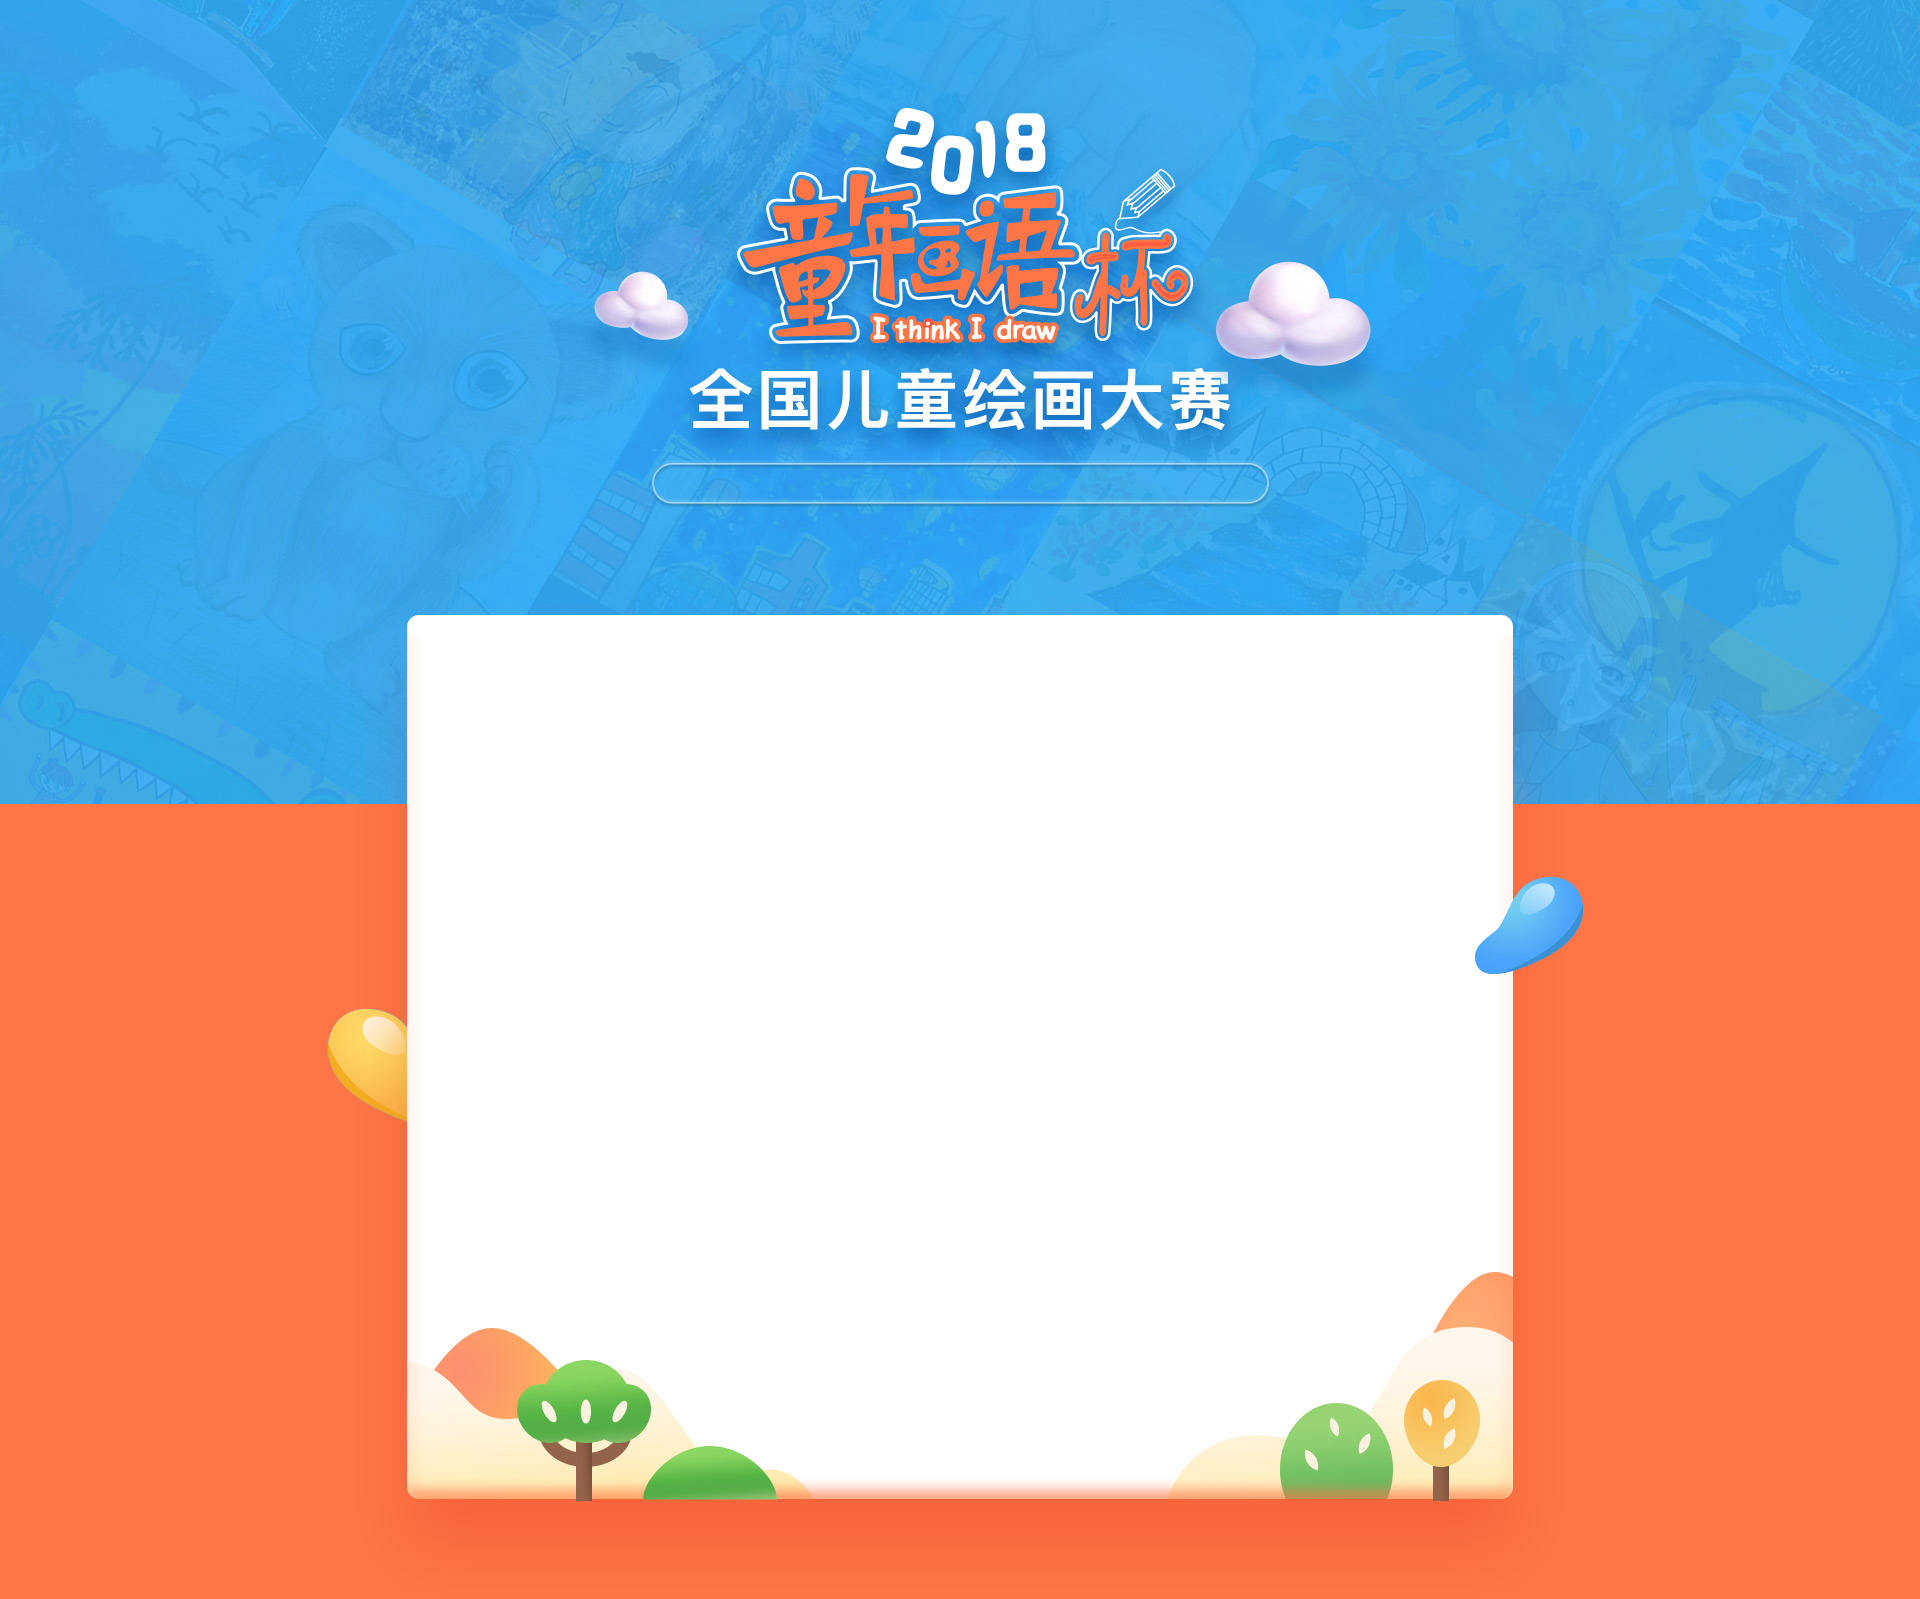
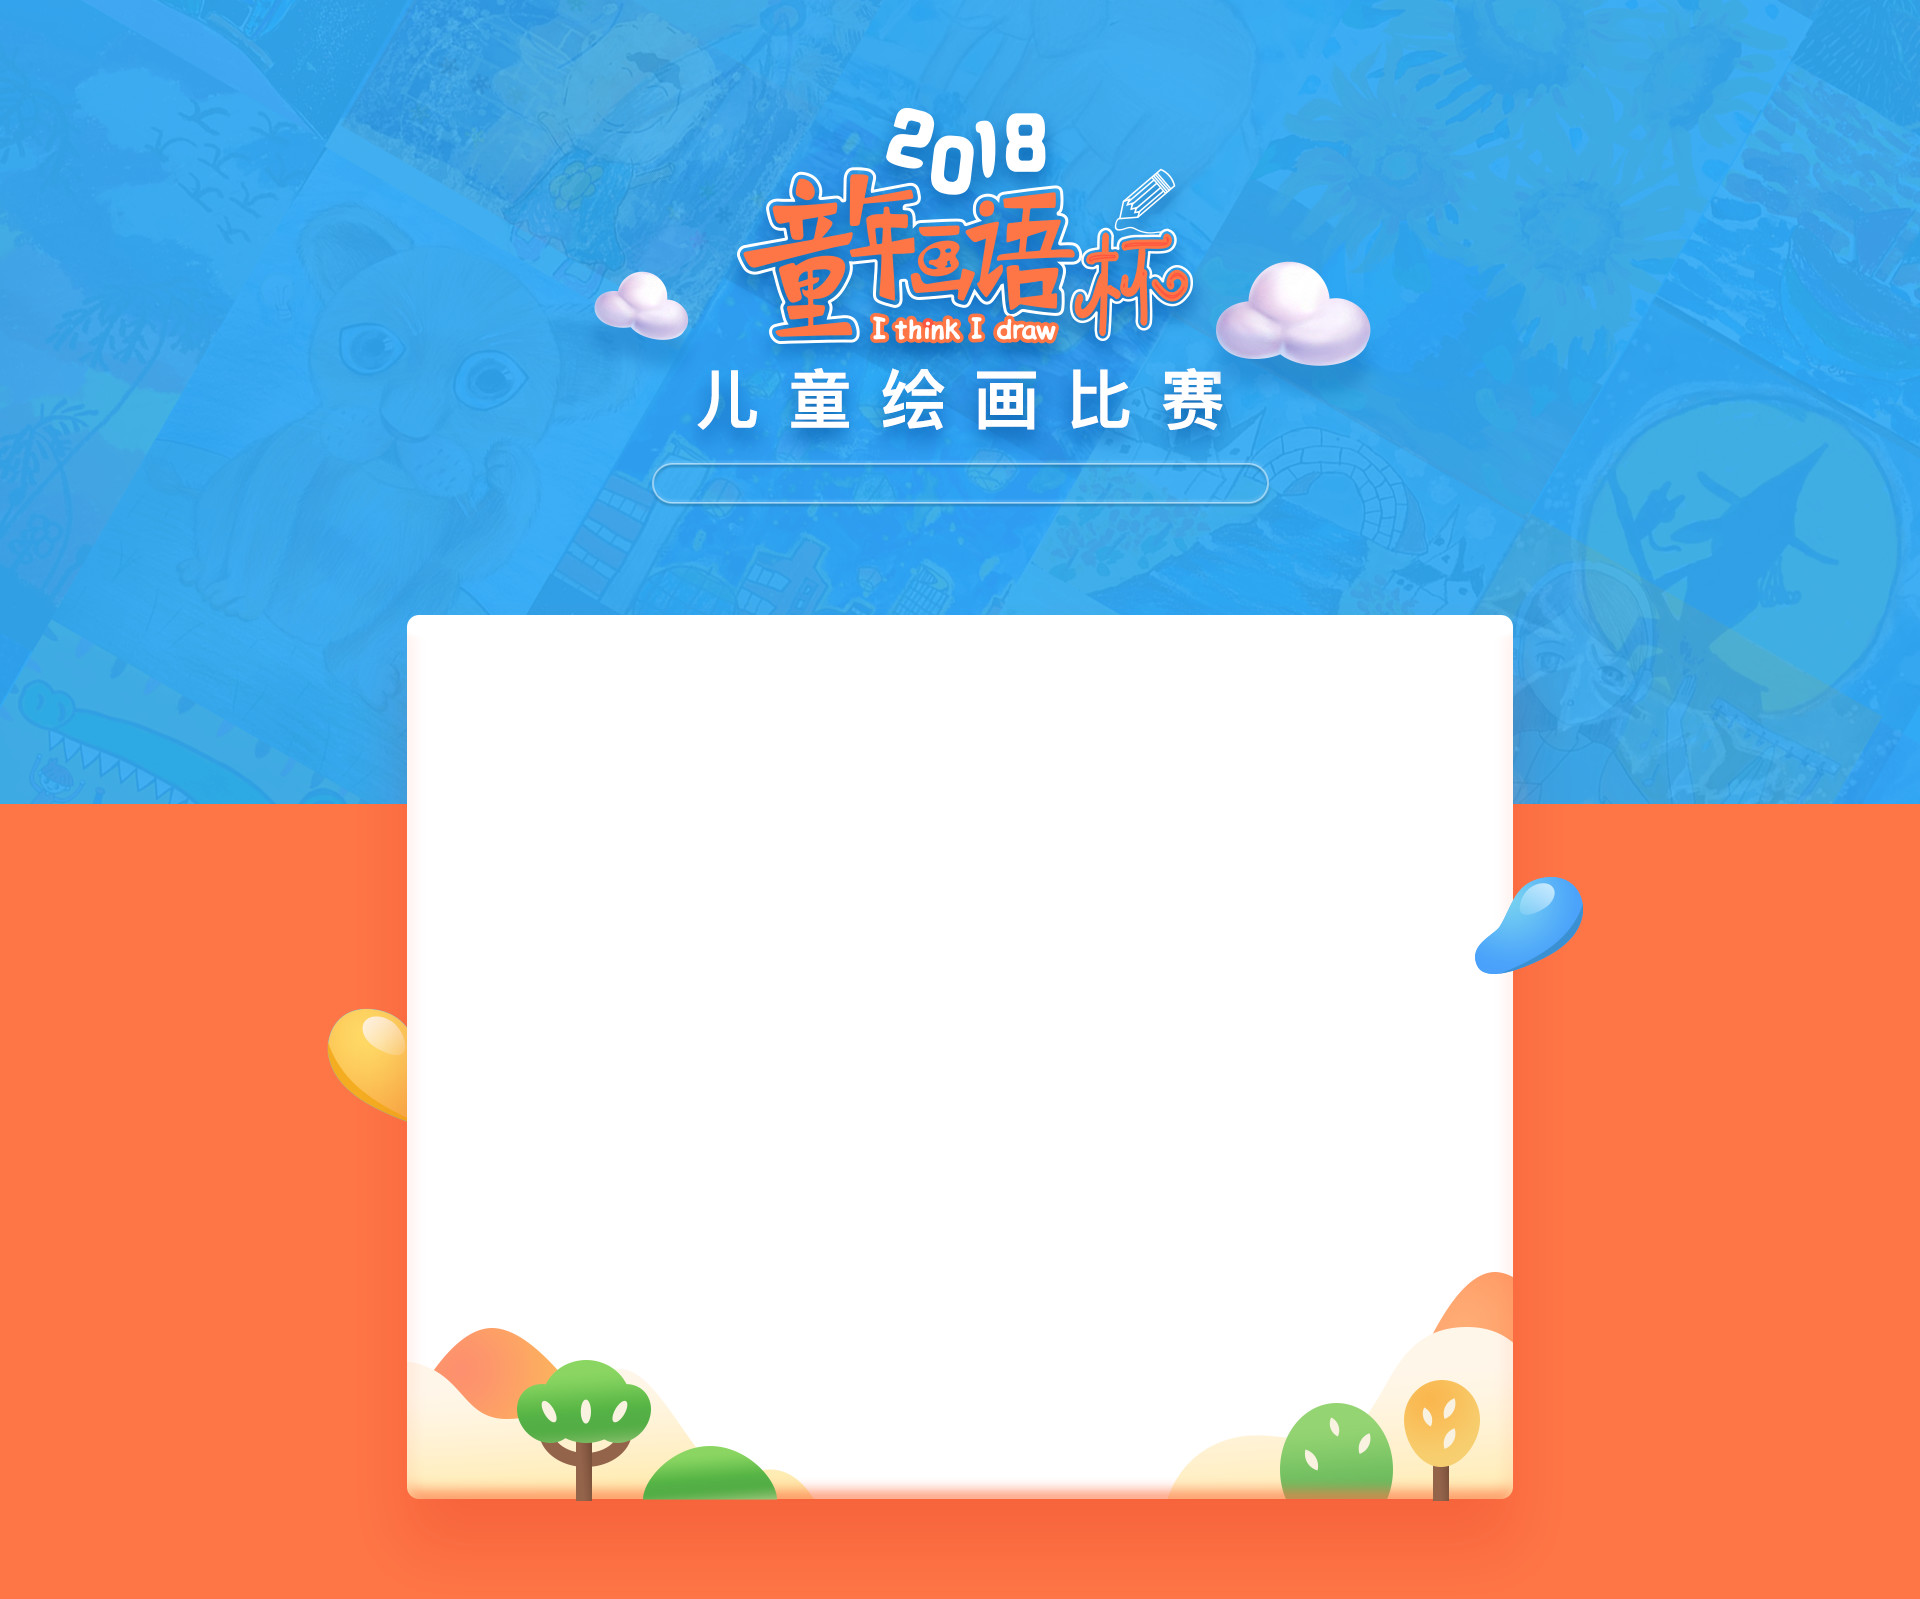
文字 修改

Changed region(s): [[0.3438, 0.2145, 0.6562, 0.2758]]

diff --git a/match/index.html b/match/index.html
@@ -13,11 +13,11 @@
     <div class="match yahei">
         <div class="banner">
             <div class="match-top">
-                <p class="match-time">报名时间：2018年3月-6月  评比时间：2018年6月7月  展出时间：2018年8月</p>
+                <p class="match-time">报名时间：2018年4月-6月  评比时间：2018年6月-7月  展出时间：2018年8月</p>
             </div>
             <div class="match-info">
                 <dl>
-                    <dt>大赛介绍</dt>
+                    <dt>比赛介绍</dt>
                     <dd>童年——人生最美好的阶段，最无忧的时光，总是憧憬着缤纷多彩的童话与梦想。</dd>
                     <dd>孩子们会用他们的独特方式来描述他们的童话世界，我们希望家长能放下手机，停下手中的工作，静下心来听孩子们描述他们的
                     理想世界。“童年画语”杯全国儿童绘画大赛，积极响应“中国梦”,大赛以科学发展观为指导思想，让孩子用画笔来表达自己眼中的
@@ -28,7 +28,8 @@
                     <dt>活动亮点</dt>
                     <dd>本次大赛入围决赛的优秀作品，将由行业专业策展人、艺术节联合策展，2018年暑期在上海专业美术馆进行公开展览。 同时，大
                     赛每位参展者都将是公益的一份子，主办方将以每位小朋友的名义，捐赠一份画材至上海特殊关爱基金会用于慈善事业。每位参展
-                    的小朋友将获得公益证书！</dd>
+                    的小朋友将获得公益证书！本届绘画比赛提交的作品，不仅展示小朋友的创作作品时的文字介绍，同时还会开发“语言记录”功能，
+                    让小朋友直接将作品背后的故事说出来给大家听，实现真正意义上的“童年画语”。</dd>
                 </dl>
             </div>
             <div class="match-video">
@@ -62,31 +63,31 @@
                             </div>
                         </li>
                         <li class="c-list fr clearfix">
-                            <img class="fl" src="../match/images/pic2.jpg" alt="">
-                            <div class="info">
-                                <p class="name b">吴超先生</p>
-                                <p class="desc">全国语文特级教师、原上海市语言文字工作者协会副会长</p>
-                            </div>
-                        </li>
-                        <li class="c-list fl clearfix">
                             <img class="fl" src="../match/images/pic3.jpg" alt="">
                             <div class="info">
                                 <p class="name b">韩生先生</p>
                                 <p class="desc">中国戏剧家协会副主席、中国舞台美术学会副会长</p>
                             </div>
                         </li>
-                        <li class="c-list fr clearfix">
-                            <img class="fl" src="../match/images/pic4.jpg" alt="">
+                        <li class="c-list fl clearfix">
+                            <img class="fl" src="../match/images/pic2.jpg" alt="">
                             <div class="info">
-                                <p class="name b">王南溟先生</p>
-                                <p class="desc">职业艺术家，批评家</p>
+                                <p class="name b">吴超先生</p>
+                                <p class="desc">全国语文特级教师、原上海市语言文字工作者协会副会长</p>
                             </div>
                         </li>
-                        <li class="c-list fl clearfix">
+                        <li class="c-list fr clearfix">
                             <img class="fl" src="../match/images/pic5.jpg" alt="">
                             <div class="info">
                                 <p class="name b">刘蟾女士</p>
                                 <p class="desc">著名海派画家、东方童画顾问</p>
+                            </div>
+                        </li>
+                        <li class="c-list fl clearfix">
+                            <img class="fl" src="../match/images/pic4.jpg" alt="">
+                            <div class="info">
+                                <p class="name b">王南溟先生</p>
+                                <p class="desc">职业艺术家，批评家</p>
                             </div>
                         </li>
                         <li class="c-list fr clearfix">
@@ -110,22 +111,12 @@
                         <h3>指导单位</h3>
                     </div>
                     <ul class="con clearfix">
-                        <li class="c-list fl clearfix">
+                        <li class="c-list fl clearfix c-single">
                             <img class="fl" src="../match/images/company1.jpg" alt="">
                             <div class="info">
                                 <p class="name b">中国儿童报</p>
-                                <p class="desc">面向6-10岁儿童，是唯一面向全国发行的中国少年
-                                先锋队中低年级队报；由共青团中央主管，中国少
-                                年儿童新闻出版总社主办，中国少年报社出版</p>
-                            </div>
-                        </li>
-                        <li class="c-list fr clearfix">
-                            <img class="fl" src="../match/images/company2.jpg" alt="">
-                            <div class="info">
-                                <p class="name b">少年日报</p>
-                                <p class="desc">《少年日报》[1]  是中国内地惟一的少年儿童日报。
-                                少年报社1967年7月创办于上海。创办时主要报刊
-                                有《少年报》《好儿童画报》。</p>
+                                <p class="desc">面向6-10岁儿童，是唯一面向全国发行的中国少年先锋队中低年级队报；由共青团中央主管，中国少年儿童新闻出版总社
+                                主办，中国少年报社出版，国内统一刊号CN11-0063，邮发代号1-90；每周一出版一期，属于综合类新闻报刊。</p>
                             </div>
                         </li>
                     </ul>
@@ -159,20 +150,20 @@
             <div class="rcon">
                 <div class="rtxt">
                     <dl>
-                        <dt>大赛规则</dt>
-                        <dd>大赛主题：我的美丽中国<br>
+                        <dt>比赛规则</dt>
+                        <dd>比赛主题：我的美丽中国<br>
                         参赛对象; 3-15岁儿童、特教学校学生、阳光之家学员等<br>
                         作品要求：<br>
                         儿童画主题创作（包含彩铅、素描、动漫作品，绘画作品避免手工立体元素。绘画作品尺寸为<br>
                         八开370*260mm，请勿装裱。）<br>
-                        报名时间：2018年3月-6月<br>
+                        报名时间：2018年4月-6月<br>
                         评比时间：2018年6月7月<br>
                         展出时间：2018年8月<br>
-                        比赛组别：幼儿组（3-6岁）、少儿组（7岁-15岁）、特别组</dd>
+                        比赛组别：幼儿组（3-6岁）、少儿组（7岁-15岁）、特别组（特教学校学生、阳光之家学员等）</dd>
                         <dd>
                         具体时间：<br>
                         2018年1月：2018“童年画语” 杯全国儿童绘画比赛组委会成立仪式<br>
-                        2018年3月：召开发布会宣布比赛正式启动，全国开启报名。<br>
+                        2018年4月：召开发布会宣布比赛正式启动，全国开启报名。<br>
                         2018年4月—5月：东方童画全国体验馆大赛报名推广，北京、上海幼儿园及少年宫同步进行。<br>
                         2018年5月—6月初：绘画大赛作品上传线上艺术馆。<br>
                         2018年6月： 开启绘画大赛线上投票，为期10天。<br>
@@ -186,13 +177,16 @@
                 <div class="txt">
                     <dl>
                         <dt>参赛流程</dt>
-                        <dd class="d1">1、 在线报名：关注大赛官方公众号：ChinaDFTH ，选择在线参赛，并按提示进行操作；也可通过电脑端登录www.dfth.com 进行在线报名。</dd>
-                        <dd class="d1">2、 上传电子版作品：将作品用数码相机或高像素手机拍成照片（确保作品画面完整平整，照片无作品外画面），照片名称以省份+城市+年龄
-                        （集体参赛需补充机构名称），并填写参赛登记表(官方公众号或网站下载），将所有文件压缩打包发送至组委会邮箱tnhyzwh@dfth.com 。</dd>
+                        <dd class="d1">1、 网络报名：关注比赛官方公众号：ChinaDFTH ，下拉菜单【童年画语】中选择在线参赛，并按提示进行操作；也可通过比赛官网www.51tnhy.com
+                        进行在线报名。</dd>
+                        <dd class="d1">2、 上传电子版作品：将作品用数码相机或高像素手机拍成照片（确保作品画面完整平整，照片无作品外画面），在官方公众号按提示上传作品、填写
+                        相关作品信息。</dd>
+                        <dd class="d1">3、集体参赛（10幅作品以上）：各机构统一汇zwh@51tnhy.com，组委会将开通机构后台管理账号并邮件回复操作说明，各机构自行汇总上传电子版作
+                        品。</dd>
                         <dd class="d1">说明：</dd>
-                        <dd>① 个人参赛者建议通过在线报名参赛方式参赛，如有疑问请直接拨打客服电话4009856006</dd>
-                        <dd>② 入围美术馆作品展出的作品，组委会将通知参赛者寄送原作品参赛：参赛作品需在作品背后右下角粘贴参赛登记表，并将登记表信息填写完整（登
-                        记表可在网站下载后打印），全国作品邮寄地址：上海市徐汇区中山西路1698弄14号童年画语比赛组委会 收  联系电话：4008956006</dd>
+                        <dd>① 个人参赛者建议通过在线报名参赛方式参赛，如有疑问请直接拨打客服电话4009856006；</dd>
+                        <dd>② 入围美术馆展出的作品，组委会将通知参赛者寄送原作品参赛：参赛作品需在作品背后右下角粘贴参赛登记表，并将登记表信息填写完整（登记表可
+                        在官方网站下载后打印），全国作品邮寄地址：上海市徐汇区中山西路1698弄14号童年画语比赛组委会 收  联系电话：4008956006；</dd>
                     </dl>
                     <div class="abtn">
                         <img src="../match/images/download.png" alt="">
@@ -202,11 +196,11 @@
                 <div class="txt">
                     <dl>
                         <dt>注意事项</dt>
-                        <dd class="d1">① 作品评选方式为根据专家组评审和网络人气评审综合结果评定</dd>
-                        <dd class="d1">② 参赛组别设立幼儿组（3-6岁）和少儿组（7-15岁）/dd>
-                        <dd class="d1">③ 提交作品时，需根据公众号的步骤流程上传作品。（画作需保存较完好，无污点无裂痕，进入复赛的作品原作需在截止日期前邮寄到组委会，方便进
-                        行落地颁奖与展览，若原作有损毁或无法邮寄，则取消领奖资格，邮寄作品需与上传作品一致，邮寄到组委会截止日期为2018年6月下旬）</dd>
-                        <dd class="d1 d2">④ 特别声明： 每位参赛者仅可报名1幅作品，所有参赛作品概不退稿，承办方拥有使用权及印刷出版权。</dd>
+                        <dd class="d1">① 作品评选根据专家组评审和网络人气评审综合结果评定；</dd>
+                        <dd class="d1">② 参赛组别设立幼儿组（3-6岁）、少儿组（7-15岁）和特别组；</dd>
+                        <dd class="d1">③ 提交作品时，需根据比赛公众号的步骤流程上传作品。（画作需保存完好，无污点无裂痕，进入复赛的作品原作需在截止日期前邮寄到组委会，方便
+进行落地颁奖与展览，若原作有损毁或无法邮寄，则取消领奖资格，邮寄作品需与上传作品一致，邮寄到组委会截止日期为2018年7月22日）；</dd>
+                        <dd class="d1 d2">④ 特别声明： 每位参赛者仅可报名1幅作品，所有参赛作品概不退稿，主办方拥有使用权及印刷出版权。本办法如有未尽事宜，主办方得以随时修订。</dd>
                     </dl>
                 </div>
                 <div class="txt txt3">
@@ -235,7 +229,7 @@
                     <dd class="d5 d6">复赛、决赛评比、颁奖盛典：</dd>
                     <dd>无需费用</dd>
                     <dd class="d5 d6">入围作品对外展出：</dd>
-                    <dd>人民币468元/幅作品（含4张观展门票、1本精装作品集）</dd>
+                    <dd>人民币518元/幅作品（含4张观展门票、1本精装作品集）</dd>
                 </dl>
             </div>
             <div class="code-box fr">
@@ -249,7 +243,7 @@
             <div class="bottom-con">
                 <p class="p1">联系我们</p>
                 <p class="p2">400-895-6006</p>
-                <p class="p3">上海市徐汇区中山西路1698弄14号</p>
+                <p class="p3">上海市徐汇区中山西路1698弄14号（童年画语杯组委会）</p>
             </div>
         </div>
     </div>

diff --git a/match/styles/style.css b/match/styles/style.css
@@ -21,6 +21,7 @@ background: blue;opacity: 0;filter:alpha(opacity=0);}
 .company .ctitle h3{font-size: 26px;color:#fd7555;margin-bottom: 25px;}
 .company .ctitle .p1 {font-size: 16px;color:#333;}
 .company .c-list {width: 420px;height: 90px;overflow: hidden;margin-top: 30px;}
+.company .c-single {width: 100%;}
 .company .c-list img{width: 90px;}
 .company .c-list .info {margin-left: 105px;}
 .company .c-list .info .name {font-size: 18px;color:#333;}
